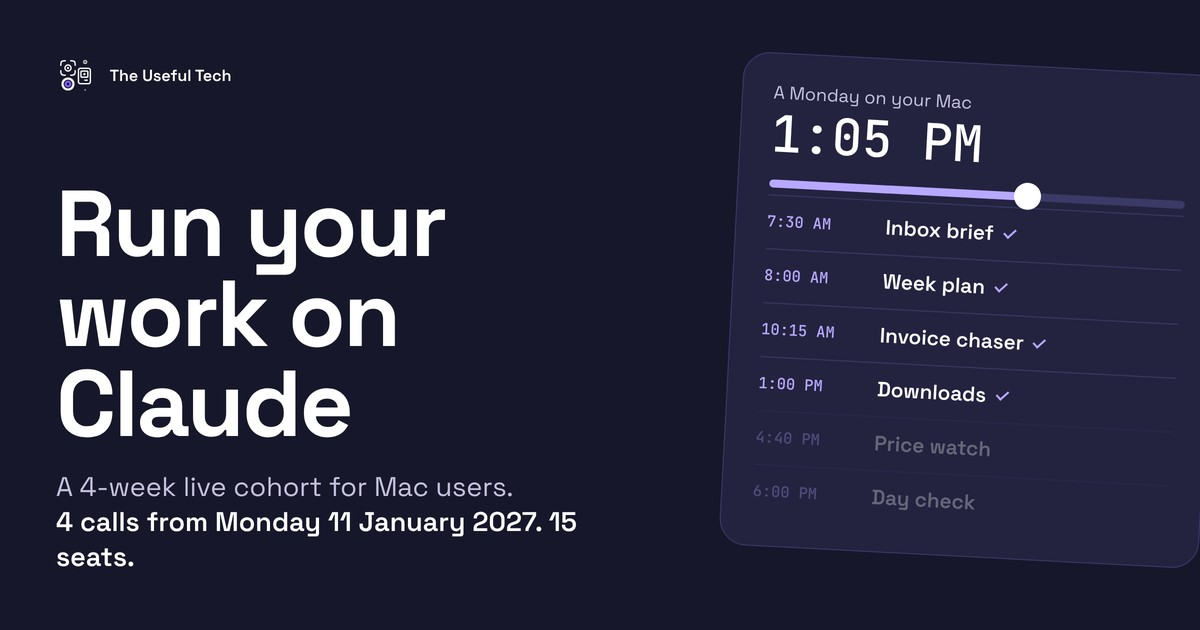
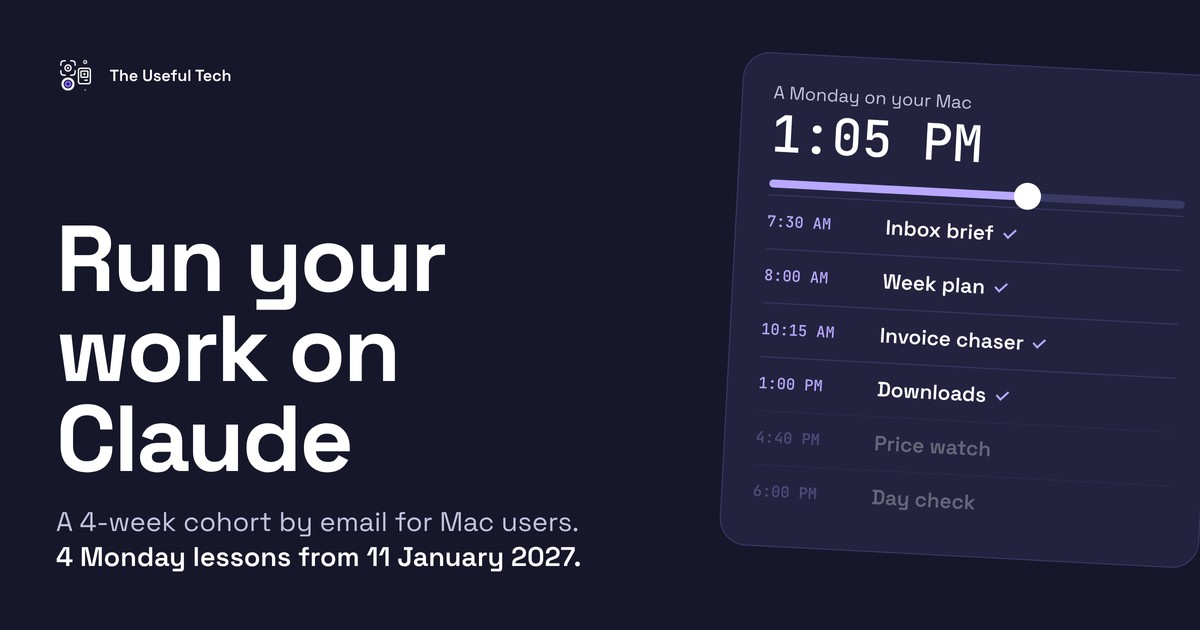
Cohort page: email version, no calls, $149, 25 seats
Claude-Session: https://claude.ai/code/session_01LDAxkXkWduto5GvVGDnW5E

Changed region(s): [[0.0308, 0.3016, 0.4933, 0.9048]]

diff --git a/cohort/index.html b/cohort/index.html
@@ -4,13 +4,13 @@
 <meta charset="utf-8">
 <script>try{var t=localStorage.getItem("tumc-theme");if(t==="light"||t==="dark")document.documentElement.setAttribute("data-theme",t)}catch(e){}</script>
 <meta name="viewport" content="width=device-width, initial-scale=1, viewport-fit=cover">
-<title>Run Your Work on Claude: a 4-week live cohort for Mac users</title>
-<meta name="description" content="4 live audio calls from Monday 11 January 2027. Set up Claude on your Mac to do the jobs you repeat every week. 15 seats, $249.">
+<title>Run Your Work on Claude: a 4-week cohort by email for Mac users</title>
+<meta name="description" content="4 Monday lessons by email from 11 January 2027. Set up Claude on your Mac to do the jobs you repeat every week. 25 seats, $149.">
 <link rel="canonical" href="https://theusefulmedia.com/cohort/">
 <meta property="og:type" content="website">
 <meta property="og:site_name" content="The Useful Media Co">
 <meta property="og:title" content="Run Your Work on Claude">
-<meta property="og:description" content="A 4-week live cohort for Mac users. 4 calls from 11 January 2027. 15 seats.">
+<meta property="og:description" content="A 4-week cohort by email for Mac users. 4 Monday lessons from 11 January 2027. 25 seats.">
 <meta property="og:url" content="https://theusefulmedia.com/cohort/">
 <meta property="og:image" content="https://theusefulmedia.com/cohort/og.jpg">
 <meta name="twitter:card" content="summary_large_image">
@@ -22,7 +22,7 @@
 <link rel="stylesheet" href="/assets/styles.css">
 <script src="/assets/site.js" defer></script>
 <script src="/apps/hit.js" defer></script>
-<script type="application/ld+json">{"@context":"https://schema.org","@type":"Course","name":"Run Your Work on Claude","description":"A 4-week live cohort for Mac users: set up Claude to do the jobs you repeat every week.","provider":{"@type":"Organization","name":"The Useful Media Co","url":"https://theusefulmedia.com/"},"hasCourseInstance":{"@type":"CourseInstance","courseMode":"Online","startDate":"2027-01-11","endDate":"2027-02-01"},"offers":{"@type":"Offer","price":"249","priceCurrency":"USD","category":"Paid","url":"https://theusefulmedia.com/cohort/"}}</script>
+<script type="application/ld+json">{"@context":"https://schema.org","@type":"Course","name":"Run Your Work on Claude","description":"A 4-week cohort by email for Mac users: set up Claude to do the jobs you repeat every week.","provider":{"@type":"Organization","name":"The Useful Media Co","url":"https://theusefulmedia.com/"},"hasCourseInstance":{"@type":"CourseInstance","courseMode":"Online","startDate":"2027-01-11","endDate":"2027-02-01"},"offers":{"@type":"Offer","price":"149","priceCurrency":"USD","category":"Paid","url":"https://theusefulmedia.com/cohort/"}}</script>
 <style>
 .co,.co-bar{--dk:#17172B;--dk2:#232340;--dkline:#34325A;--lav:#B9A8FF;--dktext:#F1EFFC;--dkdim:#C4C1DE;font-family:var(--sans)}
 .co{color:var(--ink)}
@@ -137,8 +137,14 @@
 .cal-grid span{aspect-ratio:1;display:grid;place-items:center;border-radius:50%;color:var(--graphite)}
 .cal-grid .h{color:var(--graphite);font-size:12px;aspect-ratio:auto;padding:4px 0 8px}
 .cal-grid .on{background:var(--purple-btn,#6A47F5);color:#fff;font-weight:700}
-.cal-grid .feb{position:relative}
-.cal-grid .feb i{position:absolute;left:112%;font-style:normal;font-size:12px;color:var(--purple-ink);font-weight:500}
+.cal-grid .qa{box-shadow:inset 0 0 0 2px var(--purple-btn,#6A47F5);color:var(--ink);font-weight:700}
+.cal-grid .nx{opacity:.55}
+.cal-grid .febl{font-size:12px;color:var(--purple-ink);opacity:1;aspect-ratio:auto}
+.cal-key{display:flex;gap:18px;flex-wrap:wrap;font-size:14px;margin:14px 0 0!important;color:var(--graphite)}
+.cal-key span{display:inline-flex;align-items:center;gap:7px}
+.cal-key i{width:14px;height:14px;border-radius:50%;display:block}
+.cal-key .k-on{background:var(--purple-btn,#6A47F5)}
+.cal-key .k-qa{box-shadow:inset 0 0 0 2px var(--purple-btn,#6A47F5)}
 
 /* who */
 .co-who{display:grid;grid-template-columns:minmax(0,1.05fr) minmax(0,.95fr);gap:clamp(24px,5vw,64px);align-items:center}
@@ -173,8 +179,8 @@
 .seats p{font-size:16px;color:var(--dkdim);margin:0 0 8px}
 .seats p b{color:#fff}
 .seat-cap{font:500 13px/1 var(--mono);color:var(--lav)!important;margin:0 0 10px!important}
-.seat-row{display:grid;grid-template-columns:repeat(5,1fr);gap:10px;max-width:300px;margin:0 0 18px}
-.seat-row i{aspect-ratio:1;border-radius:14px 14px 8px 8px;border:2px solid var(--dkline);background:var(--dk2)}
+.seat-row{display:grid;grid-template-columns:repeat(5,1fr);gap:8px;max-width:230px;margin:0 0 18px}
+.seat-row i{aspect-ratio:1;border-radius:10px 10px 6px 6px;border:2px solid var(--dkline);background:var(--dk2)}
 .seat-row i.min{border-color:var(--lav);background:rgb(185 168 255 / .16)}
 
 /* faq */
@@ -244,15 +250,15 @@
 <section class="wrap co-hero">
   <div class="co-hero-text">
     <h1>Run Your Work on Claude</h1>
-    <p class="co-lede">A 4-week live cohort for Mac users. You set up Claude to do the jobs you repeat every week. You build 3 things: 1 scheduled task, 1 small tool and 1 daily check that watches both.</p>
+    <p class="co-lede">A 4-week cohort by email for Mac users. Every Monday you get 1 lesson and build 1 job. By the end you have built 3 things: 1 scheduled task, 1 small tool and 1 daily check that watches both.</p>
     <dl class="co-facts">
       <div><dt>Starts</dt><dd>Monday 11 January 2027</dd></div>
-      <div><dt>Calls</dt><dd>4 Mondays at 9:00 AM New York, audio and a shared screen</dd></div>
+      <div><dt>Format</dt><dd>4 Monday lessons by email, each with a screen recording. No calls</dd></div>
       <div><dt>Teacher</dt><dd>Raja, who runs The Useful Tech</dd></div>
-      <div><dt>Price</dt><dd>$249 paid once, 15 seats</dd></div>
+      <div><dt>Price</dt><dd>$149 paid once, 25 seats</dd></div>
     </dl>
     <div class="co-cta">
-      <a class="co-buy" data-buy data-href="https://theusefultech.gumroad.com/l/run-your-work-on-claude?wanted=true" data-label="Save my seat, $249" aria-disabled="true" role="link">Seats open Tue 1 Dec</a>
+      <a class="co-buy" data-buy data-href="https://theusefultech.gumroad.com/l/run-your-work-on-claude?wanted=true" data-label="Save my seat, $149" aria-disabled="true" role="link">Seats open Tue 1 Dec</a>
       <p class="co-fine">Pre-sale runs 1 to 10 December. If fewer than 5 people join, the cohort doesn't run and everyone is refunded on 11 December.</p>
     </div>
   </div>
@@ -283,7 +289,7 @@
 
 <section class="wrap co-pick" id="pick">
   <h2>Which jobs would you hand off first?</h2>
-  <p class="co-sub">Pick 1 from each list. Each goes into the call where you build it. <span class="pick-count" data-pickcount>0 of 2 picked</span></p>
+  <p class="co-sub">Pick 1 from each list. Each goes into the week where you build it. <span class="pick-count" data-pickcount>0 of 2 picked</span></p>
   <div class="pick-grid">
     <div class="pick-lists">
       <fieldset>
@@ -318,15 +324,15 @@
 </section>
 
 <section class="wrap co-weeks" id="weeks">
-  <h2>The 4 calls</h2>
-  <p class="co-sub">I build live on each call. You build yours before the next one, using the same steps.</p>
+  <h2>The 4 lessons</h2>
+  <p class="co-sub">Each lesson has the steps written out, a screen recording of me doing them, and the files to copy. You build yours that week.</p>
 
   <article class="wk">
     <div class="wk-text">
       <time datetime="2027-01-11">Mon 11 Jan</time>
       <h3>Set up your Mac for Claude</h3>
       <p>The Claude desktop app, scheduled tasks and Claude Code, and what each one is for. You connect your email, calendar and files, then write the rules file that makes Claude write like you. I show it with Gmail and Google Calendar.</p>
-      <p class="wk-out">On this call you set Claude up to draft replies to your own inbox, in your voice.</p>
+      <p class="wk-out">This week you set Claude up to draft replies to your own inbox, in your voice.</p>
     </div>
     <div class="wk-vis v-file" data-visual aria-label="A rules file with 4 writing rules">
       <p class="v-name">how-i-write.md</p>
@@ -357,7 +363,7 @@
       <time datetime="2027-01-25">Mon 25 Jan</time>
       <h3>Build a small tool without writing code</h3>
       <p>You describe the tool to Claude Code in plain English. Claude Code builds it. You test it and say what's off, and it fixes that. I don't write code by hand either.</p>
-      <p class="wk-out">You build 1 tool on your Mac before the last call.</p>
+      <p class="wk-out">You build 1 tool on your Mac before the last lesson.</p>
     </div>
     <div class="wk-vis v-chat" data-visual aria-label="A request to Claude Code and its reply">
       <p class="v-you">Watch this page and email me when the price drops under $300.</p>
@@ -380,27 +386,29 @@
   </article>
 </section>
 
-<section class="wrap co-calls" id="calls">
+<section class="wrap co-calls" id="how">
   <div class="calls-text">
-    <h2>How the calls work</h2>
+    <h2>How it works</h2>
     <ul class="calls-list">
-      <li>Audio and a shared screen. Cameras stay off, mine included.</li>
-      <li>Mondays at 9:00 AM New York, 2:00 PM London, for about 75 minutes.<span class="calls-local" data-local hidden></span></li>
-      <li>Every call is recorded. The recording is in your inbox within 24 hours.</li>
-      <li>Between calls, send questions about your own setup to <a href="mailto:raja@theusefultech.com">raja@theusefultech.com</a>.</li>
+      <li>A lesson reaches your inbox every Monday for 4 weeks.</li>
+      <li>Each one has written steps, a silent screen recording and the files to copy.</li>
+      <li>Send questions about your own setup to <a href="mailto:raja@theusefultech.com">raja@theusefultech.com</a> on any day.</li>
+      <li>Every Thursday the whole group gets that week's questions with my answers.</li>
+      <li>There are no calls and no video meetings.</li>
     </ul>
   </div>
-  <div class="cal" data-visual aria-label="Calendar for January 2027 with the 4 call dates marked: 11, 18 and 25 January and 1 February">
+  <div class="cal" data-visual aria-label="Calendar for January 2027. Lessons arrive on Monday 11, 18 and 25 January and 1 February. Answers go out on Thursday 14, 21 and 28 January and 4 February">
     <p class="cal-m">January 2027</p>
     <div class="cal-grid" aria-hidden="true">
       <span class="h">M</span><span class="h">T</span><span class="h">W</span><span class="h">T</span><span class="h">F</span><span class="h">S</span><span class="h">S</span>
       <span class="x"></span><span class="x"></span><span class="x"></span><span class="x"></span><span>1</span><span>2</span><span>3</span>
       <span>4</span><span>5</span><span>6</span><span>7</span><span>8</span><span>9</span><span>10</span>
-      <span class="on">11</span><span>12</span><span>13</span><span>14</span><span>15</span><span>16</span><span>17</span>
-      <span class="on">18</span><span>19</span><span>20</span><span>21</span><span>22</span><span>23</span><span>24</span>
-      <span class="on">25</span><span>26</span><span>27</span><span>28</span><span>29</span><span>30</span><span>31</span>
-      <span class="on feb">1<i>Feb</i></span>
+      <span class="on">11</span><span>12</span><span>13</span><span class="qa">14</span><span>15</span><span>16</span><span>17</span>
+      <span class="on">18</span><span>19</span><span>20</span><span class="qa">21</span><span>22</span><span>23</span><span>24</span>
+      <span class="on">25</span><span>26</span><span>27</span><span class="qa">28</span><span>29</span><span>30</span><span>31</span>
+      <span class="on">1</span><span class="nx">2</span><span class="nx">3</span><span class="qa">4</span><span class="nx febl">Feb</span>
     </div>
+    <p class="cal-key"><span><i class="k-on"></i>Lesson</span><span><i class="k-qa"></i>Questions answered</span></p>
   </div>
 </section>
 
@@ -409,7 +417,7 @@
     <h2>Who's teaching</h2>
     <p>I'm Raja. I run The Useful Tech, the #1 Apple blog on Medium, with <a href="https://medium.com/@theusefultech">78K Medium followers</a> and 500+ articles. It's a 1-person company, and I'm not a developer.</p>
     <p>Claude built my iPhone app, which Apple approved on 13 November 2026, and my Mac app, on sale since October 2026. It built this site too. Scheduled tasks draft my newsletters and post my daily reel, and another task checks them 2 times a day.</p>
-    <p>Call 1 covers which part of Claude does what. Calls 2 and 3 cover handing off a job so it keeps running. Call 4 covers catching it when it goes wrong.</p>
+    <p>Lesson 1 covers which part of Claude does what. Lessons 2 and 3 cover handing off a job so it keeps running. Lesson 4 covers catching it when it goes wrong.</p>
   </div>
   <div class="duo" data-visual aria-label="How the week is divided between Claude and me">
     <div class="duo-a">
@@ -436,7 +444,7 @@
     <h2>Skip it if</h2>
     <ul>
       <li>You're a developer who already lives in Claude Code</li>
-      <li>You want a course to watch in your own time. This one is live, with a job to build between calls</li>
+      <li>You want live calls or video. This one is written, with silent screen recordings</li>
     </ul>
   </div>
 </section>
@@ -445,20 +453,20 @@
   <div class="price-box">
     <div class="price-main">
       <h2>Join the January cohort</h2>
-      <p class="price-amt">$249 <span>paid once</span></p>
+      <p class="price-amt">$149 <span>paid once</span></p>
       <ul>
-        <li>4 live calls on 11, 18 and 25 January and 1 February</li>
-        <li>A recording of every call</li>
-        <li>The rules file and task instructions from each call, to copy into your own setup</li>
-        <li>Questions by email between calls</li>
+        <li>4 lessons by email on 11, 18 and 25 January and 1 February</li>
+        <li>A screen recording with every lesson</li>
+        <li>The rules file and task instructions from each lesson, to copy into your own setup</li>
+        <li>Your questions answered by email, with a round-up every Thursday</li>
       </ul>
-      <a class="co-buy" data-buy data-href="https://theusefultech.gumroad.com/l/run-your-work-on-claude?wanted=true" data-label="Save my seat, $249" aria-disabled="true" role="link">Seats open Tue 1 Dec</a>
+      <a class="co-buy" data-buy data-href="https://theusefultech.gumroad.com/l/run-your-work-on-claude?wanted=true" data-label="Save my seat, $149" aria-disabled="true" role="link">Seats open Tue 1 Dec</a>
       <p class="co-fine">You need a Mac and any paid Claude plan. Pro is enough.</p>
     </div>
-    <div class="seats" data-visual aria-label="15 seats. The cohort runs once 5 are taken.">
+    <div class="seats" data-visual aria-label="25 seats. The cohort runs once 5 are taken.">
       <p class="seat-cap">5 needed for it to run</p>
-      <div class="seat-row" aria-hidden="true"><i class="min"></i><i class="min"></i><i class="min"></i><i class="min"></i><i class="min"></i><i></i><i></i><i></i><i></i><i></i><i></i><i></i><i></i><i></i><i></i></div>
-      <p><b>15 seats.</b> The cohort runs once 5 are taken.</p>
+      <div class="seat-row" aria-hidden="true"><i class="min"></i><i class="min"></i><i class="min"></i><i class="min"></i><i class="min"></i><i></i><i></i><i></i><i></i><i></i><i></i><i></i><i></i><i></i><i></i><i></i><i></i><i></i><i></i><i></i><i></i><i></i><i></i><i></i><i></i></div>
+      <p><b>25 seats.</b> The cohort runs once 5 are taken.</p>
       <p>The pre-sale closes on Thursday 10 December at midnight New York. With fewer than 5 people, it doesn't run. Everyone gets a full refund on Friday 11 December, with nothing to request.</p>
     </div>
   </div>
@@ -466,20 +474,20 @@
 
 <section class="wrap co-faq" id="faq">
   <h2>Questions</h2>
-  <details><summary>Do I need to know how to code?</summary><p>No. In week 3 you talk to Claude Code in plain English, and it writes the code.</p></details>
-  <details><summary>Which Claude plan do I need?</summary><p>Any paid plan. Pro includes scheduled tasks and Claude Code, so it is enough to follow along. In week 4 I show how much each kind of job uses, so you know if your plan covers what you want to run.</p></details>
-  <details><summary>Do I have to show my face or speak?</summary><p>No. Calls are audio with a shared screen, and cameras stay off. You can ask questions out loud or type them.</p></details>
-  <details><summary>What if I miss a call?</summary><p>The recording reaches you within 24 hours. Send your questions before the next call.</p></details>
+  <details><summary>Do I need to know how to code?</summary><p>No. In lesson 3 you talk to Claude Code in plain English, and it writes the code.</p></details>
+  <details><summary>Which Claude plan do I need?</summary><p>Any paid plan. Pro includes scheduled tasks and Claude Code, so it is enough to follow along. Lesson 4 shows how much each kind of job uses, so you know if your plan covers what you want to run.</p></details>
+  <details><summary>Are there any calls?</summary><p>No. Everything arrives by email: the written lessons, the screen recordings and the answers to your questions.</p></details>
+  <details><summary>What if I fall behind?</summary><p>Each lesson stays in your inbox, so build it when you have time. Questions are open until Sunday 14 February.</p></details>
   <details><summary>Does my Mac have to stay on?</summary><p>Not for scheduled tasks. They can run in the cloud, so they run with your Mac off. A tool that works on files on your Mac runs when the Mac is on.</p></details>
   <details><summary>What happens if fewer than 5 people join?</summary><p>The cohort doesn't run. Everyone gets a full refund on Friday 11 December, with nothing to request.</p></details>
-  <details><summary>Can I get a refund after 11 December?</summary><p>No. Once 5 people join, the cohort runs and all sales are final. Every call is recorded, so a missed call is never lost.</p></details>
+  <details><summary>Can I get a refund after 11 December?</summary><p>No. Once 5 people join, the cohort runs and all sales are final. The lessons are yours to keep.</p></details>
   <details><summary>Is this made by Anthropic?</summary><p>No. It is an independent cohort by The Useful Media Co. It is not made or endorsed by Anthropic.</p></details>
   <p class="faq-more">Something else? Write to <a href="mailto:raja@theusefultech.com">raja@theusefultech.com</a>.</p>
 </section>
 
 </main>
 <div class="co-bar" data-bar hidden>
-  <p><b>$249</b><span>15 seats</span></p>
+  <p><b>$149</b><span>25 seats</span></p>
   <a class="co-buy" data-buy data-href="https://theusefultech.gumroad.com/l/run-your-work-on-claude?wanted=true" data-label="Save my seat" aria-disabled="true" role="link">Seats open Tue 1 Dec</a>
 </div>
 
@@ -517,14 +525,14 @@ if(bar&&hero&&price&&'IntersectionObserver' in window){bar.hidden=false;var hv=t
 
 (function(){
 var OPEN=false; /* the launch run sets this to true once the Gumroad checkout is live */
-var FULL=false; /* set to true when all 15 seats are taken */
+var FULL=false; /* set to true when all 25 seats are taken */
 if(/[?&]preview=open\b/.test(location.search))OPEN=true;
 var CLOSE=Date.UTC(2026,11,11,5,0); /* midnight New York at the end of Thu 10 Dec 2026 */
 var b=[].slice.call(document.querySelectorAll('[data-buy]'));
 var src=(location.search.match(/[?&]utm_source=([\w.-]{1,40})/)||[])[1]||'cohort-page';
 function say(t){b.forEach(function(x){x.textContent=t})}
 if(Date.now()>=CLOSE)say('The pre-sale has closed');
-else if(FULL)say('All 15 seats are taken');
+else if(FULL)say('All 25 seats are taken');
 else if(OPEN)b.forEach(function(x){x.href=x.getAttribute('data-href')+'&utm_source='+encodeURIComponent(src)+'&utm_medium=site';x.textContent=x.getAttribute('data-label');x.removeAttribute('aria-disabled');x.removeAttribute('role')});
 })();
 
